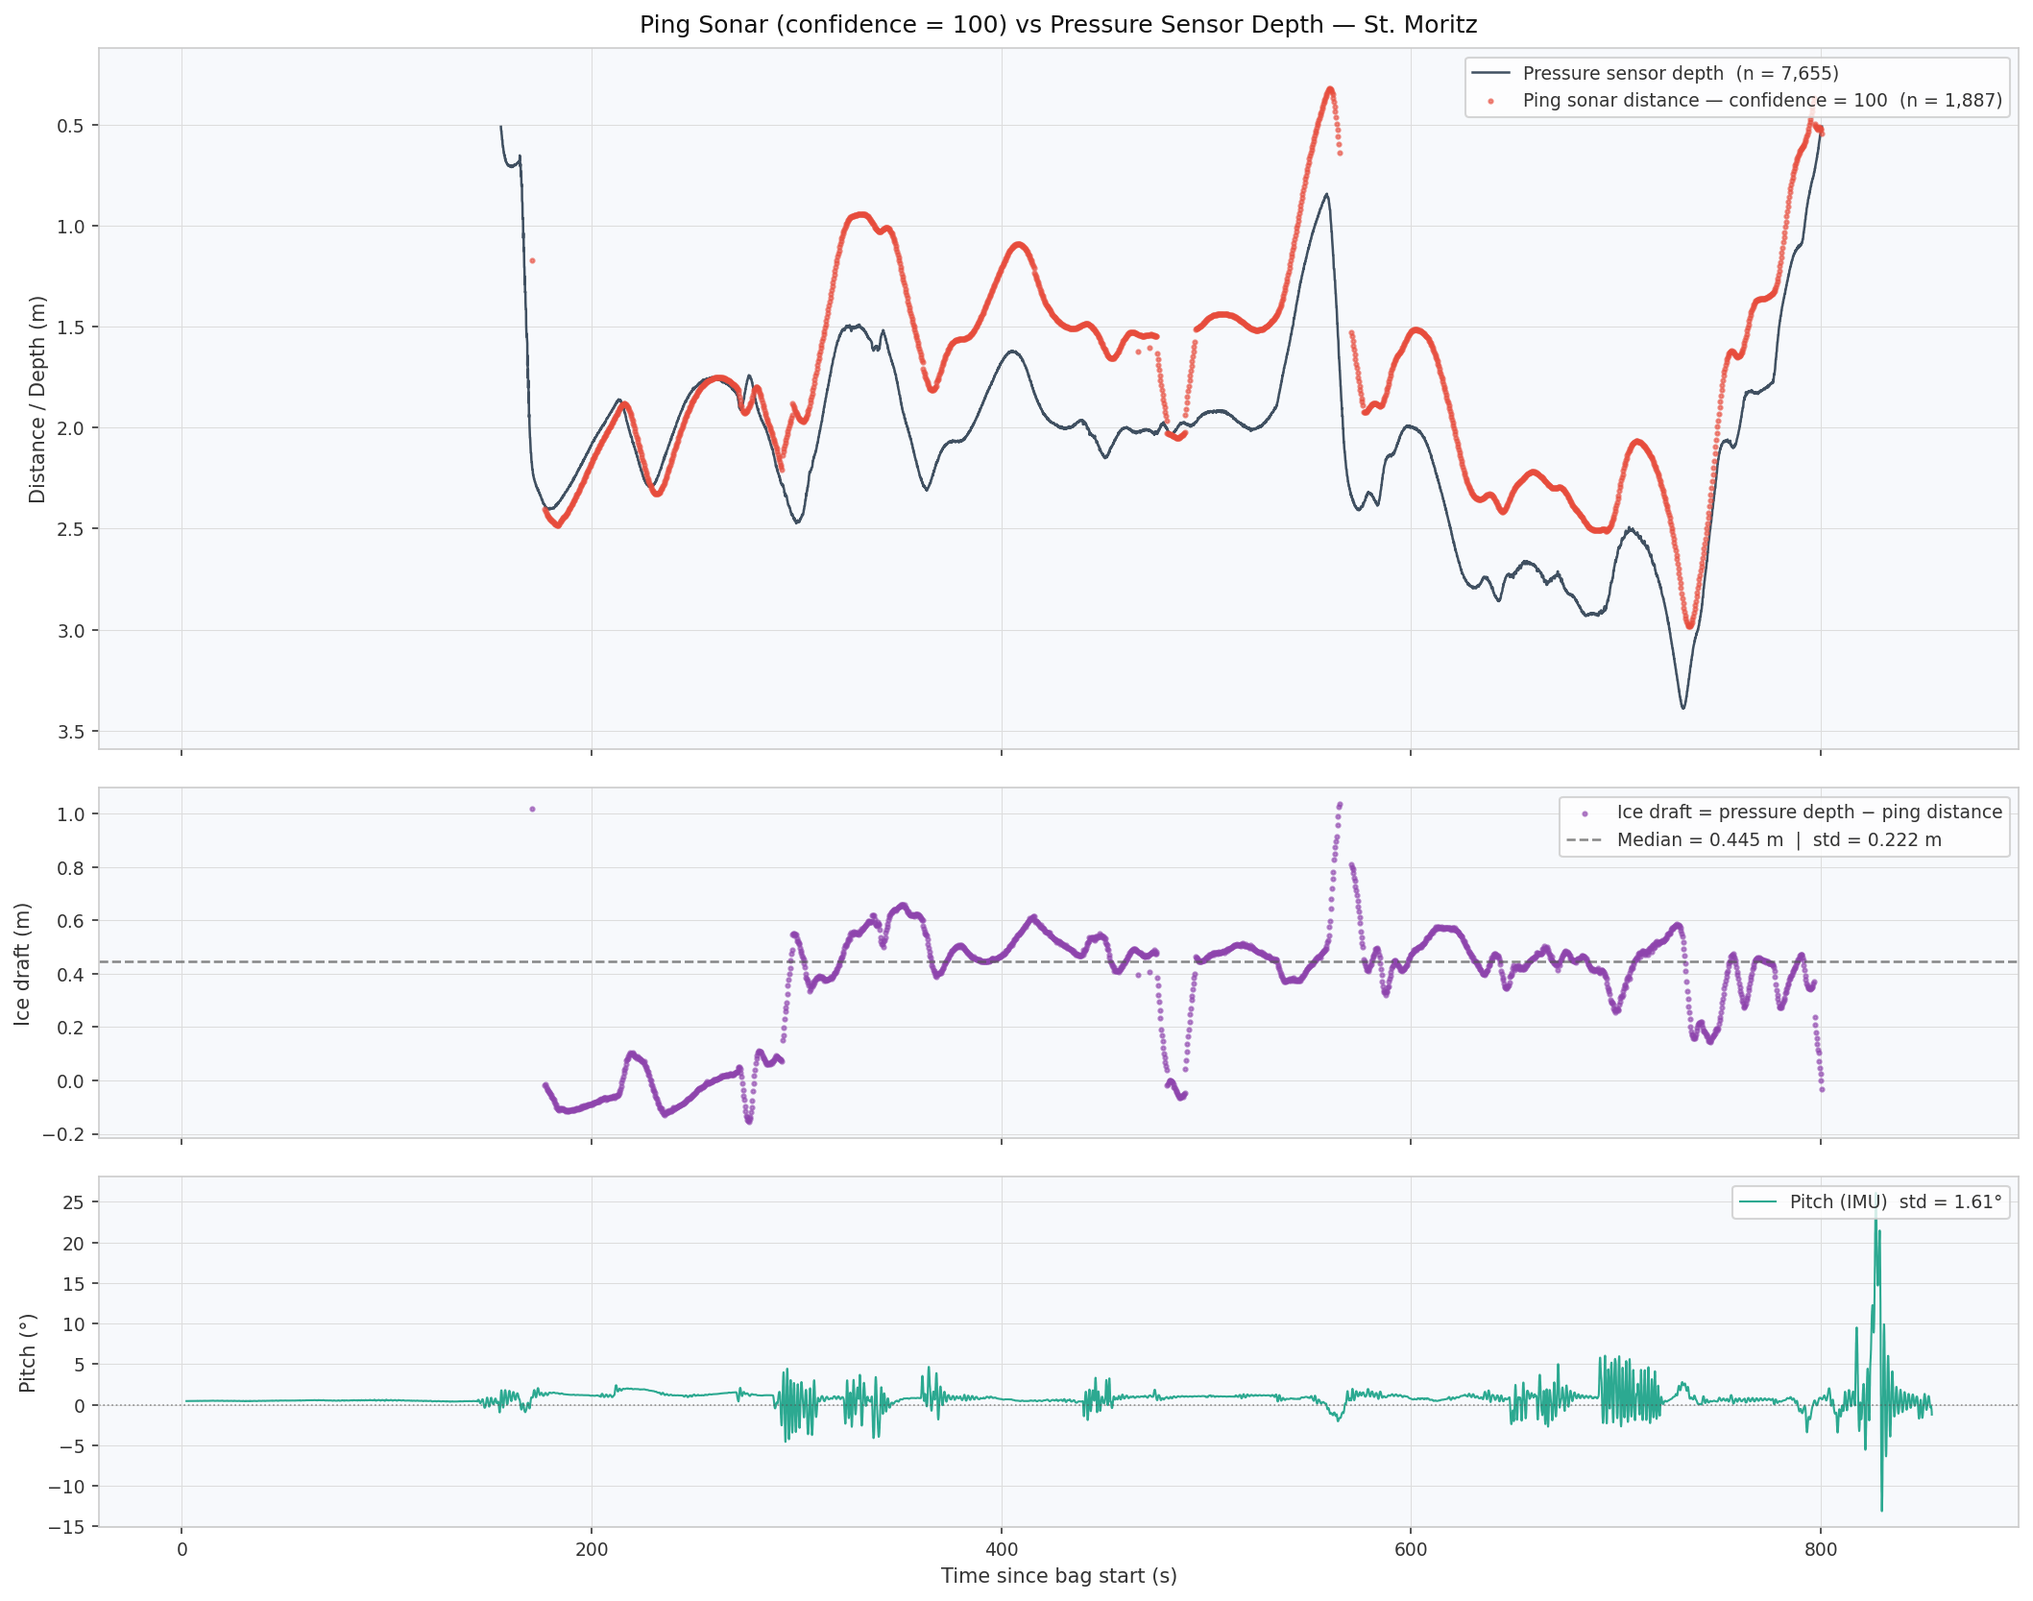
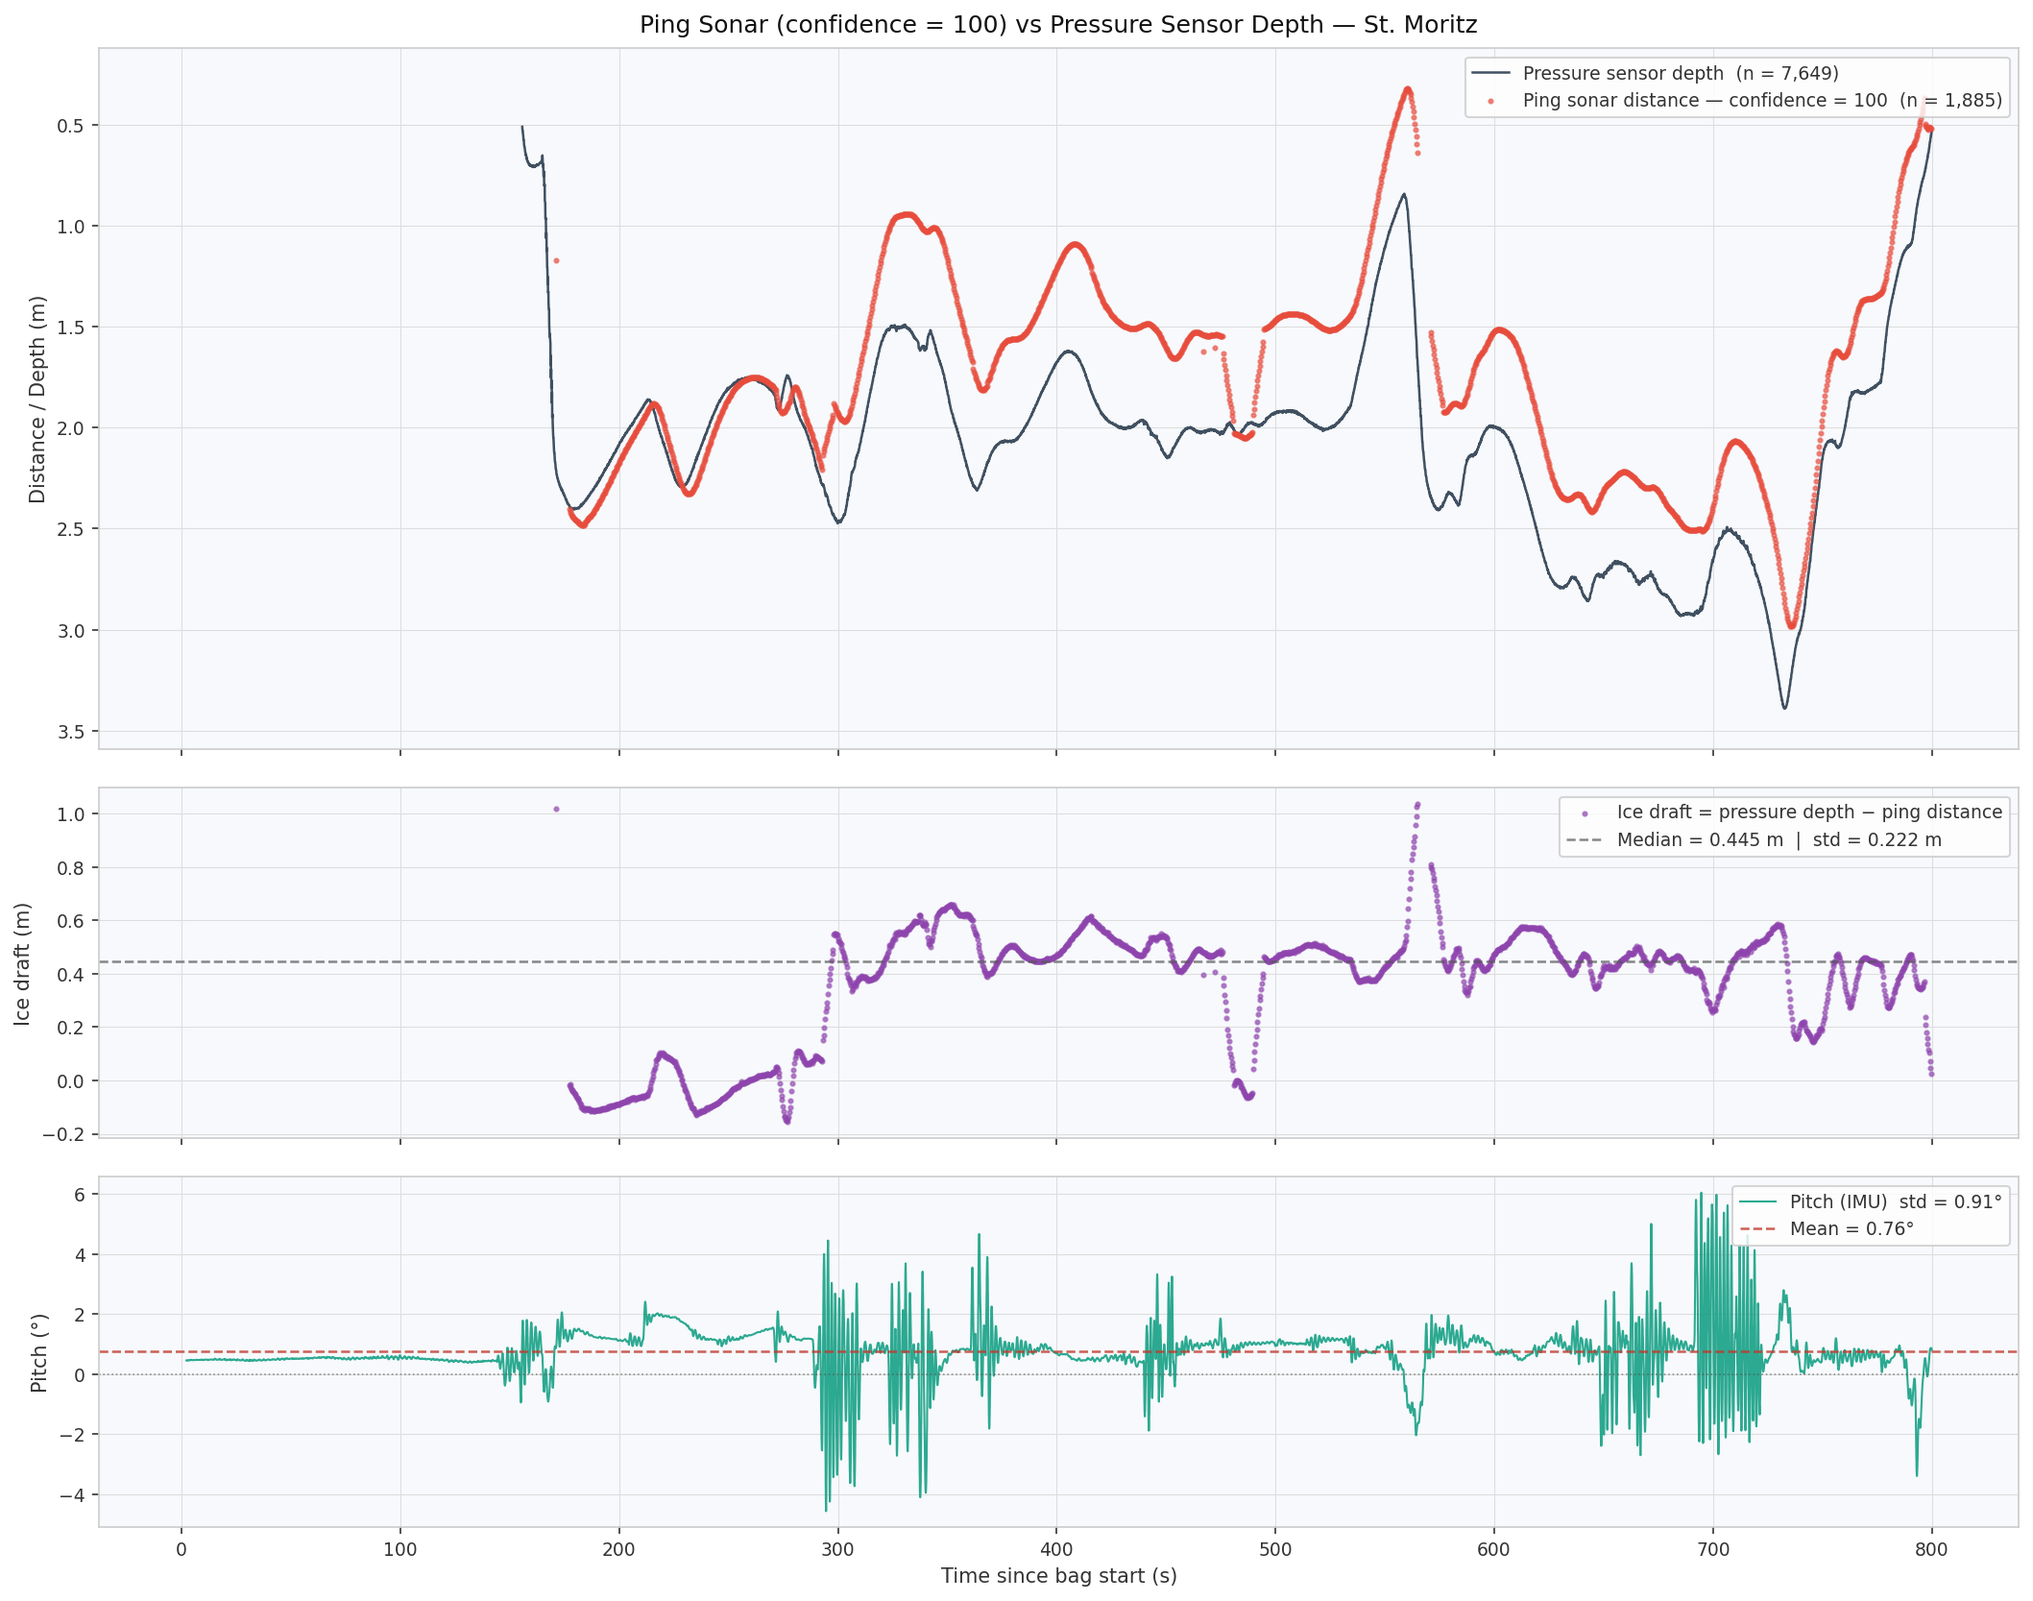
feat: add TMAX cutoff to ping sonar plot, mean pitch line, and ultrasonic vs depth script

diff --git a/src/ice_estimates/scripts/plot_ultrasonic_vs_depth.py b/src/ice_estimates/scripts/plot_ultrasonic_vs_depth.py
@@ -1,0 +1,303 @@
+#!/usr/bin/env python3
+"""
+Plot top-mounted ultrasonic distance vs pressure-sensor depth (Zermatt grid survey).
+
+Usage:
+    python3 plot_ultrasonic_vs_depth.py [BAG ...] [--out FILE]
+
+    BAG       Path to a rosbag2 directory (MCAP storage) or .mcap file.
+    --out     Output PNG path (default: ultrasonic_vs_depth_zermatt.png next to this script).
+
+Reads:
+    /top/ultrasonic/distance     (std_msgs/Float32)             — distance to ice ceiling in m
+    /sensors/pressure/pose_enu   (geometry_msgs/PoseWithCovarianceStamped) — z_enu in m
+    /odometry/filtered/local     (nav_msgs/Odometry)            — roll/pitch from orientation quaternion
+
+Ultrasonic samples reporting exactly 0.0 m are dropped (sensor fault sentinel
+used by the touch-detection node).
+
+Archimedes thickness (no touch required, AUV anywhere under the ice). Both
+the sensor offset and the ultrasonic beam lie along body-z, so each picks up
+a cos(pitch)cos(roll) factor when projected onto world-vertical:
+
+    c                = cos(pitch) * cos(roll)
+    depth_ultrasonic = depth_pressure - pressure_to_ultrasonic_z_m * c
+    ice_draft        = depth_ultrasonic - d_ultrasonic * c
+    T_ice            = ice_draft * rho_water / rho_ice
+
+`pressure_to_ultrasonic_z_m` is the body-z distance from the pressure sensor
+up to the ultrasonic sensor (positive when ultrasonic sits above pressure).
+"""
+
+import argparse
+import math
+import sys
+from pathlib import Path
+
+import matplotlib
+
+matplotlib.use("Agg")
+import matplotlib.pyplot as plt
+import numpy as np
+
+try:
+    from rosbags.highlevel import AnyReader
+except ImportError:
+    print("Install: pip install rosbags", file=sys.stderr)
+    sys.exit(1)
+
+TOPIC_ULTRA = "/top/ultrasonic/distance"
+TOPIC_DEPTH = "/sensors/pressure/pose_enu"
+TOPIC_ODOM  = "/odometry/filtered/local"
+
+MAX_STALENESS_S = 1.0   # only keep samples where the other sensor published within this window
+MIN_DEPTH_M     = 0.5   # ignore samples when AUV is shallower than this (surface / pre-dive)
+MAX_ULTRA_M     = 5.0   # drop clear outliers beyond this distance
+
+# --- Archimedes thickness constants (mirror config.yaml) ---
+PRESSURE_TO_ULTRASONIC_Z_M = 0.062   # ultrasonic sits this far ABOVE pressure sensor (body z, m)
+RHO_WATER                  = 999.4   # kg/m^3
+RHO_ICE                    = 887.5   # kg/m^3
+
+DEFAULT_BAGS = [
+    "/ros2_ws/recordings/zermatt_grid_01_2026_04_30-12_04_16",
+    "/ros2_ws/recordings/zermatt_grid_02_2026_04_30-13_00_44",
+]
+
+
+def roll_pitch_from_quat(qx, qy, qz, qw):
+    """Tait-Bryan roll, pitch (radians) from a unit quaternion (body -> world, ZYX)."""
+    sinr_cosp = 2.0 * (qw * qx + qy * qz)
+    cosr_cosp = 1.0 - 2.0 * (qx * qx + qy * qy)
+    roll = math.atan2(sinr_cosp, cosr_cosp)
+    sinp = 2.0 * (qw * qy - qz * qx)
+    sinp = max(-1.0, min(1.0, sinp))
+    pitch = math.asin(sinp)
+    return roll, pitch
+
+
+def extract_data(bag_paths):
+    """Collect ultrasonic, pressure-depth, and odom roll/pitch samples across bags."""
+    topics = [TOPIC_ULTRA, TOPIC_DEPTH, TOPIC_ODOM]
+
+    ultra_ts, ultra_dist = [], []
+    depth_ts, depth_m = [], []
+    odom_ts, odom_roll, odom_pitch = [], [], []
+    t_offset = None
+    latest_depth = None
+
+    for bag_path in bag_paths:
+        bag_path = Path(bag_path)
+        print(f"Reading {bag_path.name}...")
+        with AnyReader([bag_path]) as reader:
+            connections = [c for c in reader.connections if c.topic in topics]
+            available = {c.topic for c in connections}
+            if TOPIC_ULTRA not in available:
+                print(f"  WARNING: {TOPIC_ULTRA} not found in {bag_path.name}", file=sys.stderr)
+            if TOPIC_DEPTH not in available:
+                print(f"  WARNING: {TOPIC_DEPTH} not found in {bag_path.name}", file=sys.stderr)
+            if TOPIC_ODOM not in available:
+                print(f"  WARNING: {TOPIC_ODOM} not found in {bag_path.name}", file=sys.stderr)
+
+            for conn, t_ns, raw in reader.messages(connections=connections):
+                t_s = t_ns * 1e-9
+                if t_offset is None:
+                    t_offset = t_s
+                t_rel = t_s - t_offset
+
+                msg = reader.deserialize(raw, conn.msgtype)
+
+                if conn.topic == TOPIC_DEPTH:
+                    d = -float(msg.pose.pose.position.z)  # ENU z -> depth positive down
+                    latest_depth = d
+                    if d >= MIN_DEPTH_M:
+                        depth_ts.append(t_rel)
+                        depth_m.append(d)
+
+                elif conn.topic == TOPIC_ULTRA:
+                    d_m = float(msg.data)
+                    if d_m == 0.0:
+                        continue  # sensor-fault sentinel used by touch-detection node
+                    if d_m > MAX_ULTRA_M:
+                        continue
+                    if latest_depth is None or latest_depth < MIN_DEPTH_M:
+                        continue
+                    ultra_ts.append(t_rel)
+                    ultra_dist.append(d_m)
+
+                elif conn.topic == TOPIC_ODOM:
+                    q = msg.pose.pose.orientation
+                    norm_sq = q.x * q.x + q.y * q.y + q.z * q.z + q.w * q.w
+                    if norm_sq < 0.5:
+                        continue  # quaternion not initialised
+                    r, p = roll_pitch_from_quat(q.x, q.y, q.z, q.w)
+                    odom_ts.append(t_rel)
+                    odom_roll.append(r)
+                    odom_pitch.append(p)
+
+    return (
+        np.array(ultra_ts), np.array(ultra_dist),
+        np.array(depth_ts), np.array(depth_m),
+        np.array(odom_ts), np.array(odom_roll), np.array(odom_pitch),
+    )
+
+
+def coactive_mask(ts_query, ts_other):
+    """Boolean mask keeping only samples with a neighbour in ts_other within MAX_STALENESS_S."""
+    if len(ts_other) == 0:
+        return np.zeros(len(ts_query), dtype=bool)
+    idx = np.searchsorted(ts_other, ts_query).clip(0, len(ts_other) - 1)
+    idx_prev = (idx - 1).clip(0, len(ts_other) - 1)
+    nearest_dist = np.minimum(
+        np.abs(ts_query - ts_other[idx]),
+        np.abs(ts_query - ts_other[idx_prev]),
+    )
+    return nearest_dist <= MAX_STALENESS_S
+
+
+def main():
+    parser = argparse.ArgumentParser(
+        description=__doc__, formatter_class=argparse.RawDescriptionHelpFormatter
+    )
+    parser.add_argument("bags", nargs="*", metavar="BAG",
+                        help="rosbag2 directories or MCAP files. Defaults to the two zermatt_grid bags.")
+    parser.add_argument("--out", default=None, metavar="FILE",
+                        help="Output PNG path (default: ultrasonic_vs_depth_zermatt.png)")
+    args = parser.parse_args()
+
+    bag_paths = args.bags or DEFAULT_BAGS
+    out_path = (
+        Path(args.out) if args.out
+        else Path(__file__).parent / "ultrasonic_vs_depth_zermatt.png"
+    )
+
+    (ultra_ts, ultra_dist,
+     depth_ts, depth_m,
+     odom_ts, odom_roll, odom_pitch) = extract_data(bag_paths)
+
+    if len(ultra_ts) == 0:
+        print("No ultrasonic samples found.", file=sys.stderr)
+        sys.exit(1)
+    if len(depth_ts) == 0:
+        print("No pressure depth samples found.", file=sys.stderr)
+        sys.exit(1)
+    if len(odom_ts) == 0:
+        print("WARNING: no odometry samples found — pitch/roll correction skipped.",
+              file=sys.stderr)
+
+    # Restrict to co-active windows
+    ultra_mask = coactive_mask(ultra_ts, depth_ts)
+    depth_mask = coactive_mask(depth_ts, ultra_ts)
+
+    ultra_ts_co   = ultra_ts[ultra_mask]
+    ultra_dist_co = ultra_dist[ultra_mask]
+    depth_ts_co   = depth_ts[depth_mask]
+    depth_m_co    = depth_m[depth_mask]
+
+    print(f"\nAfter co-activity filter (+-{MAX_STALENESS_S}s):")
+    print(f"  Ultrasonic distance: {len(ultra_ts_co):,} / {len(ultra_ts):,} samples  "
+          f"mean={ultra_dist_co.mean():.3f} m  std={ultra_dist_co.std():.3f} m  "
+          f"range=[{ultra_dist_co.min():.3f}, {ultra_dist_co.max():.3f}] m")
+    print(f"  Pressure depth:      {len(depth_ts_co):,} / {len(depth_ts):,} samples  "
+          f"mean={depth_m_co.mean():.3f} m  std={depth_m_co.std():.3f} m  "
+          f"range=[{depth_m_co.min():.3f}, {depth_m_co.max():.3f}] m")
+
+    # Archimedes ice thickness with pitch/roll correction:
+    #   c                = cos(pitch) * cos(roll)
+    #   depth_ultrasonic = depth_pressure - pressure_to_ultrasonic_z_m * c
+    #   ice_draft        = depth_ultrasonic - d_ultrasonic * c
+    #   T                = ice_draft * rho_water / rho_ice
+    depth_at_ultra = np.interp(ultra_ts_co, depth_ts_co, depth_m_co)
+    if len(odom_ts) > 0:
+        roll_at_ultra  = np.interp(ultra_ts_co, odom_ts, odom_roll)
+        pitch_at_ultra = np.interp(ultra_ts_co, odom_ts, odom_pitch)
+        c              = np.cos(pitch_at_ultra) * np.cos(roll_at_ultra)
+        pitch_deg = np.degrees(pitch_at_ultra)
+        roll_deg  = np.degrees(roll_at_ultra)
+        print(f"  Odometry roll:       n={len(odom_ts):,}  "
+              f"mean={roll_deg.mean():.2f}°  std={roll_deg.std():.2f}°  "
+              f"range=[{roll_deg.min():.2f}, {roll_deg.max():.2f}]°")
+        print(f"  Odometry pitch:      n={len(odom_ts):,}  "
+              f"mean={pitch_deg.mean():.2f}°  std={pitch_deg.std():.2f}°  "
+              f"range=[{pitch_deg.min():.2f}, {pitch_deg.max():.2f}]°")
+        print(f"  cos(pitch)*cos(roll) at ultrasonic samples:  "
+              f"mean={c.mean():.4f}  min={c.min():.4f}  max={c.max():.4f}")
+    else:
+        c = np.ones_like(ultra_dist_co)
+
+    ice_draft     = depth_at_ultra - (PRESSURE_TO_ULTRASONIC_Z_M + ultra_dist_co) * c
+    ice_thickness = ice_draft * (RHO_WATER / RHO_ICE)
+
+    draft_median = float(np.median(ice_draft))
+    draft_std    = float(ice_draft.std())
+    T_median     = float(np.median(ice_thickness))
+    T_std        = float(ice_thickness.std())
+
+    print(f"\n  Ice draft  (depth - ({PRESSURE_TO_ULTRASONIC_Z_M:.3f} m + ultrasonic) * cos(p)cos(r)):")
+    print(f"    median={draft_median:.3f} m  std={draft_std:.3f} m  "
+          f"range=[{ice_draft.min():.3f}, {ice_draft.max():.3f}] m")
+    print(f"  Archimedes thickness  (draft * {RHO_WATER:.1f} / {RHO_ICE:.1f}):")
+    print(f"    median={T_median:.3f} m  std={T_std:.3f} m  "
+          f"range=[{ice_thickness.min():.3f}, {ice_thickness.max():.3f}] m")
+
+    # -- Figure ----------------------------------------------------------------
+    fig, (ax_main, ax_sum) = plt.subplots(
+        2, 1, figsize=(14, 9), sharex=True,
+        gridspec_kw={"height_ratios": [2, 1], "hspace": 0.06},
+        constrained_layout=True,
+    )
+    fig.patch.set_facecolor("white")
+
+    def style(ax):
+        ax.set_facecolor("#f7f9fc")
+        ax.spines[:].set_color("#cccccc")
+        ax.tick_params(colors="#333333", labelsize=9)
+        ax.grid(True, color="#dddddd", linewidth=0.5, zorder=0)
+
+    style(ax_main)
+    style(ax_sum)
+
+    # -- Top: depth + ultrasonic overlaid -------------------------------------
+    ax_main.plot(
+        depth_ts_co, depth_m_co,
+        lw=1.2, color="#2c3e50", alpha=0.9, zorder=2,
+        label=f"Pressure sensor depth  (n = {len(depth_ts_co):,})",
+    )
+    ax_main.scatter(
+        ultra_ts_co, ultra_dist_co,
+        s=4, color="#e67e22", alpha=0.6, zorder=3, rasterized=True,
+        label=f"Top ultrasonic distance to ice  (n = {len(ultra_ts_co):,})",
+    )
+    ax_main.set_ylabel("Distance / Depth (m)", color="#333333", fontsize=10)
+    ax_main.set_title(
+        "Top Ultrasonic Distance vs Pressure Sensor Depth — Zermatt grid\n"
+        "Archimedes thickness  =  (depth − sensor_offset − ultrasonic) · ρ_water / ρ_ice",
+        color="#111111", fontsize=11, pad=8,
+    )
+    ax_main.legend(fontsize=9, facecolor="white", edgecolor="#cccccc", labelcolor="#333333",
+                   loc="upper right")
+    all_vals = np.concatenate([depth_m_co, ultra_dist_co])
+    margin = 0.2
+    ax_main.set_ylim(all_vals.max() + margin, max(0.0, all_vals.min() - margin))
+
+    # -- Bottom: Archimedes ice thickness -------------------------------------
+    ax_sum.scatter(
+        ultra_ts_co, ice_thickness,
+        s=4, color="#8e44ad", alpha=0.6, zorder=2, rasterized=True,
+        label=(f"Archimedes thickness   draft median = {draft_median:.3f} m   "
+               f"std = {T_std:.3f} m"),
+    )
+    ax_sum.axhline(T_median, color="#555555", lw=1.2, ls="--", alpha=0.8,
+                   label=f"Median T = {T_median:.3f} m   "
+                         f"(offset = {PRESSURE_TO_ULTRASONIC_Z_M:.3f} m, "
+                         f"ρ_w/ρ_i = {RHO_WATER:.1f}/{RHO_ICE:.1f})")
+    ax_sum.set_ylabel("Ice thickness (m)", color="#333333", fontsize=10)
+    ax_sum.set_xlabel("Time since bag start (s)", color="#333333", fontsize=10)
+    ax_sum.legend(fontsize=9, facecolor="white", edgecolor="#cccccc", labelcolor="#333333")
+
+    fig.savefig(out_path, dpi=150, bbox_inches="tight", facecolor="white")
+    print(f"\nSaved: {out_path}")
+
+
+if __name__ == "__main__":
+    main()

diff --git a/src/ice_estimates/scripts/plot_ping_sonar_reliability.py b/src/ice_estimates/scripts/plot_ping_sonar_reliability.py
@@ -146,6 +146,15 @@ def main():
 
     ping_ts, ping_dist, depth_ts, depth_m, pitch_ts, pitch_deg = extract_data(bag_paths)
 
+    # Pressure and ping have no valid data past this point in the St. Moritz bag.
+    TMAX_S = 800.0
+    m_ping = ping_ts <= TMAX_S
+    ping_ts, ping_dist = ping_ts[m_ping], ping_dist[m_ping]
+    m_depth = depth_ts <= TMAX_S
+    depth_ts, depth_m = depth_ts[m_depth], depth_m[m_depth]
+    m_pitch = pitch_ts <= TMAX_S
+    pitch_ts, pitch_deg = pitch_ts[m_pitch], pitch_deg[m_pitch]
+
     if len(ping_ts) == 0:
         print("No ping sonar data with confidence = 100 found.", file=sys.stderr)
         sys.exit(1)
@@ -217,12 +226,17 @@ def main():
 
     # ── Bottom: pitch from /imu/data ─────────────────────────────────────────
     if len(pitch_deg) > 0:
+        pitch_mean = pitch_deg.mean()
         ax_pitch.plot(
             pitch_ts, pitch_deg,
             lw=1.0, color="#16a085", alpha=0.9, zorder=2,
             label=f"Pitch (IMU)  std = {pitch_deg.std():.2f}°",
         )
         ax_pitch.axhline(0.0, color="#555555", lw=0.8, ls=":", alpha=0.6)
+        ax_pitch.axhline(
+            pitch_mean, color="#c0392b", lw=1.2, ls="--", alpha=0.8,
+            label=f"Mean = {pitch_mean:.2f}°",
+        )
     else:
         ax_pitch.text(0.5, 0.5, "No /imu/data in bag",
                       ha="center", va="center", transform=ax_pitch.transAxes,
